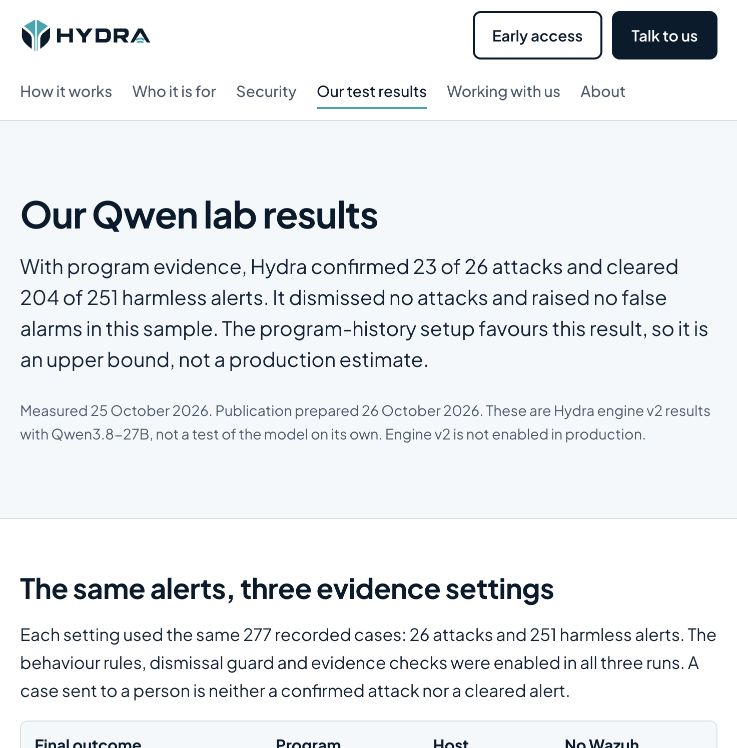
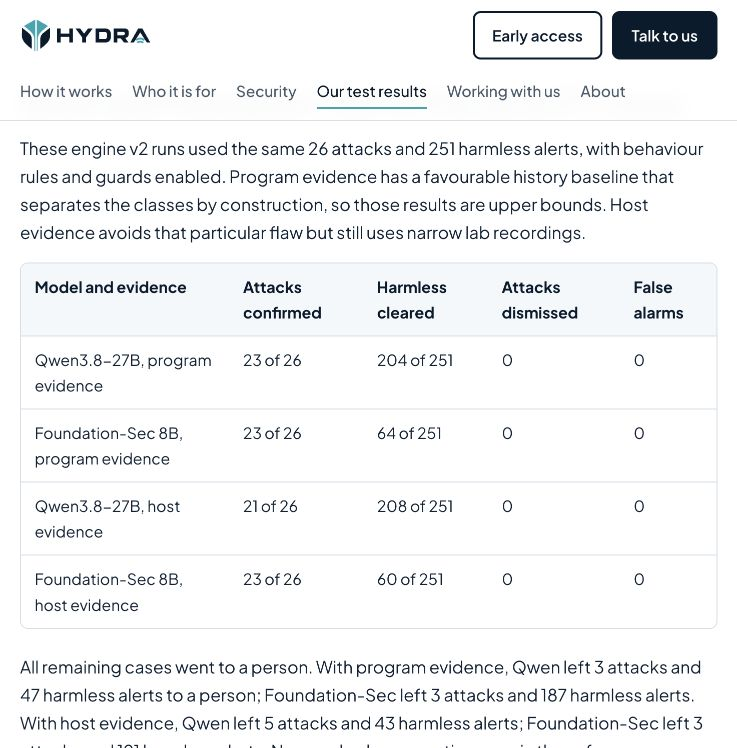
Restore model comparisons alongside Qwen results

diff --git a/public-site/pages/our-test-results.html b/public-site/pages/our-test-results.html
@@ -3,10 +3,10 @@
 <head>
 <meta charset="utf-8">
 <meta name="viewport" content="width=device-width, initial-scale=1">
-<title>Qwen lab results: 277 recorded alerts | Hydra</title>
-<meta name="description" content="Hydra engine v2 with Qwen3.8-27B on 277 recorded lab alerts. All three evidence settings, human referrals, and the limits of the test.">
+<title>Model comparison and test results | Hydra</title>
+<meta name="description" content="Compare Hydra with Qwen3.8-27B, Foundation-Sec 8B and Granite 4.1 3B. Matched lab runs, earlier results, and the limits of each test.">
 <link rel="canonical" href="https://radiantinnovatech.com/pages/our-test-results.html">
-<meta property="og:type" content="website"><meta property="og:site_name" content="Hydra"><meta property="og:title" content="Qwen lab results: 277 recorded alerts | Hydra"><meta property="og:description" content="Hydra engine v2 with Qwen3.8-27B on 277 recorded lab alerts. All three evidence settings, human referrals, and the limits of the test."><meta property="og:url" content="https://radiantinnovatech.com/pages/our-test-results.html"><meta property="og:image" content="https://radiantinnovatech.com/assets/brand/og-image-light.png">
+<meta property="og:type" content="website"><meta property="og:site_name" content="Hydra"><meta property="og:title" content="Model comparison and test results | Hydra"><meta property="og:description" content="Compare Hydra with Qwen3.8-27B, Foundation-Sec 8B and Granite 4.1 3B. Matched lab runs, earlier results, and the limits of each test."><meta property="og:url" content="https://radiantinnovatech.com/pages/our-test-results.html"><meta property="og:image" content="https://radiantinnovatech.com/assets/brand/og-image-light.png">
 <meta name="twitter:card" content="summary_large_image">
 <link rel="icon" href="/assets/brand/favicon.ico" sizes="any"><link rel="icon" type="image/svg+xml" href="/assets/brand/favicon.svg"><link rel="apple-touch-icon" href="/assets/brand/apple-touch-icon.png">
 <link rel="preconnect" href="https://fonts.googleapis.com"><link rel="preconnect" href="https://fonts.gstatic.com" crossorigin>
@@ -22,12 +22,20 @@
 </div></header>
 <main id="main">
 <section class="hero"><div class="wrap narrow">
-<h1>Our Qwen lab results</h1>
-<p class="lead">With program evidence, Hydra confirmed 23 of 26 attacks and cleared 204 of 251 harmless alerts. It dismissed no attacks and raised no false alarms in this sample. The program-history setup favours this result, so it is an upper bound, not a production estimate.</p>
-<p class="note">Measured 25 October 2026. Publication prepared 26 October 2026. These are Hydra engine v2 results with Qwen3.8-27B, not a test of the model on its own. Engine v2 is not enabled in production.</p>
+<h1>Our model comparisons</h1>
+<p class="lead">We tested Hydra with Qwen3.8-27B, Foundation-Sec 8B and Granite 4.1 3B. Below are the comparisons on matching cases, followed by the earlier 42-alert test. Different case sets and engine versions cannot be ranked as one accuracy score.</p>
+<p class="note">Latest Qwen runs measured 25 October 2026; earlier comparison reported 17 October 2026. These are Hydra system results unless marked model-only. Engine v2 is not enabled in production.</p>
 </div></section>
 <section class="sec"><div class="wrap narrow">
-<h2>The same alerts, three evidence settings</h2>
+<h2>Qwen and Foundation-Sec on the same 277 cases</h2>
+<p>These engine v2 runs used the same 26 attacks and 251 harmless alerts, with behaviour rules and guards enabled. Program evidence has a favourable history baseline that separates the classes by construction, so those results are upper bounds. Host evidence avoids that particular flaw but still uses narrow lab recordings.</p>
+<div class="tablewrap"><table><thead><tr><th>Model and evidence</th><th>Attacks confirmed</th><th>Harmless cleared</th><th>Attacks dismissed</th><th>False alarms</th></tr></thead><tbody><tr><td>Qwen3.8-27B, program evidence</td><td>23 of 26</td><td>204 of 251</td><td>0</td><td>0</td></tr><tr><td>Foundation-Sec 8B, program evidence</td><td>23 of 26</td><td>64 of 251</td><td>0</td><td>0</td></tr><tr><td>Qwen3.8-27B, host evidence</td><td>21 of 26</td><td>208 of 251</td><td>0</td><td>0</td></tr><tr><td>Foundation-Sec 8B, host evidence</td><td>23 of 26</td><td>60 of 251</td><td>0</td><td>0</td></tr></tbody></table></div>
+<p>All remaining cases went to a person. With program evidence, Qwen left 3 attacks and 47 harmless alerts to a person; Foundation-Sec left 3 attacks and 187 harmless alerts. With host evidence, Qwen left 5 attacks and 43 harmless alerts; Foundation-Sec left 3 attacks and 191 harmless alerts. No case had an execution error in these four runs.</p>
+<p>Qwen cleared more harmless alerts in these runs. With host evidence, Foundation-Sec confirmed two more attacks. These are Hydra system outcomes after code checks, not standalone model accuracy. Granite was not measured on this 277-case set.</p>
+<p><a class="more" href="/assets/results/model-comparison-2026-10.json">Download the matched model comparison and run-file hashes (JSON) &rarr;</a></p>
+</div></section>
+<section class="sec"><div class="wrap narrow">
+<h2>Qwen on the same alerts, three evidence settings</h2>
 <p>Each setting used the same 277 recorded cases: 26 attacks and 251 harmless alerts. The behaviour rules, dismissal guard and evidence checks were enabled in all three runs. A case sent to a person is neither a confirmed attack nor a cleared alert.</p>
 <div class="tablewrap"><table><thead><tr><th>Final outcome</th><th>Program evidence</th><th>Host evidence</th><th>No Wazuh evidence</th></tr></thead><tbody><tr><td>Attacks confirmed</td><td>23 of 26</td><td>21 of 26</td><td>11 of 26</td></tr><tr><td>Attacks sent to a person</td><td>3 of 26</td><td>5 of 26</td><td>15 of 26</td></tr><tr><td>Attacks dismissed as harmless</td><td>0 of 26</td><td>0 of 26</td><td>0 of 26</td></tr><tr><td>Harmless alerts cleared</td><td>204 of 251</td><td>208 of 251</td><td>224 of 251</td></tr><tr><td>Harmless alerts sent to a person</td><td>47 of 251</td><td>43 of 251</td><td>27 of 251</td></tr><tr><td>Harmless alerts called attacks</td><td>0 of 251</td><td>0 of 251</td><td>0 of 251</td></tr><tr><td>Cases with an execution error</td><td>0 of 277</td><td>0 of 277</td><td>0 of 277</td></tr></tbody></table></div>
 <p><strong>Program evidence</strong> describes the history of the program involved. <strong>Host evidence</strong> describes activity on the machine. <strong>No Wazuh evidence</strong> omits those recorded tool results; Hydra still has the alert and its code-based checks. Clearing more harmless alerts is only one part of the result: without Wazuh evidence, fewer attacks were confirmed and more were left to a person.</p>
@@ -53,9 +61,37 @@
 <section class="sec"><div class="wrap narrow">
 <h2>What comes next</h2>
 <p>We plan a fairer history baseline, independent review of labels and rules, and a separate burst test. Customer work with real data will not start until the Cyber Security Authority answers our licence position in writing.</p>
-<p>This replaces the earlier 42-alert test as the main results page. That earlier test used a different case set and setup; its figures cannot be compared directly with these results.</p>
 <p><a class="more" href="/assets/results/qwen-2026-10-25.json">Download the aggregate results and run-file hashes (JSON) &rarr;</a></p>
 <p><a class="more" href="/pages/contact.html">Talk to us about the test &rarr;</a></p>
+</div></section>
+<section class="sec"><div class="wrap narrow">
+<h2>Earlier comparison: 42 alerts, October 2026</h2>
+<p>These previously published results are retained for comparison. They use 18 attacks and 24 harmless alerts, with a different setup from the newer test. Qwen was not measured on this set. Granite was run before the later fixes, so this is not a controlled ranking of all three models.</p>
+</div></section>
+<section class="sec"><div class="wrap narrow">
+<h2>The test</h2>
+<ul><li><strong>42 alerts:</strong> 18 real attacks and 24 harmless look-alikes.</li><li><strong>20 from recorded real-world data.</strong> These come from public attack recordings (OTRF Security-Datasets, MIT licence). The attack tool's own events are labelled as attacks. The other events from the same recordings are labelled harmless.</li><li><strong>22 we wrote ourselves</strong> from well-known attack and normal patterns: a Word document starting PowerShell, Kerberoasting, password spraying, backup software, patching, VPN logons and so on.</li><li><strong>Titles and severity do not give away the answer.</strong> Alerts are titled and rated by the rule that fired, never by the label, and a test checks that severity does not separate attacks from harmless alerts within a rule.</li><li><strong>A new customer's situation.</strong> We removed anything a brand-new customer would not have yet: stored reputation lookups, related alerts and analyst history.</li></ul>
+<h3>How we score it</h3>
+<div class="tablewrap"><table><thead><tr><th>Measure</th><th>What it means</th></tr></thead><tbody><tr><td>Attacks flagged</td><td>Real attacks Hydra called an attack</td></tr><tr><td>Attacks dismissed</td><td>Real attacks Hydra called harmless. This is the dangerous mistake. The target is zero.</td></tr><tr><td>Harmless alerts cleared</td><td>Harmless alerts Hydra called harmless: the noise it removes</td></tr><tr><td>Harmless alerts called attacks</td><td>False alarms</td></tr><tr><td>Left to a person</td><td>Alerts Hydra said needs a person, whichever the truth</td></tr></tbody></table></div>
+</div></section>
+<section class="sec"><div class="wrap narrow">
+<h2>The results</h2>
+<div class="tablewrap"><table><thead><tr><th>Set-up</th><th>Attacks flagged</th><th>Harmless cleared</th><th>Attacks dismissed</th><th>Harmless called attacks</th><th>Time per alert</th></tr></thead><tbody><tr><td>Hydra's built-in checks only, no AI</td><td>13 of 18</td><td>19 of 24</td><td>0</td><td>0</td><td>Under a second</td></tr><tr><td>Checks plus Foundation-Sec 8B (open model, one NVIDIA L4 GPU)</td><td>13 of 18</td><td>19 of 24</td><td>0</td><td>0</td><td>28 seconds</td></tr><tr><td>Checks plus Granite 4.1 3B (small open model, a laptop), run before our latest fixes</td><td>12 of 18</td><td>19 of 24</td><td>0</td><td>0</td><td>25 seconds</td></tr></tbody></table></div>
+<p>Every attack Hydra did not flag was passed to a person as "needs a person". None was called harmless.</p>
+<h3>What the AI alone does without the checks</h3>
+<div class="tablewrap"><table><thead><tr><th>AI model on its own</th><th>Attacks flagged</th><th>Attacks dismissed</th><th>Harmless called attacks</th></tr></thead><tbody><tr><td>Granite 4.1 3B, given Hydra's behaviour analysis</td><td>16 of 18</td><td>2 of 18</td><td>1 of 24</td></tr><tr><td>Granite 4.1 3B, without the behaviour analysis</td><td>16 of 18</td><td>1 of 18</td><td>15 of 24</td></tr><tr><td>Foundation-Sec 8B, given the behaviour analysis</td><td>18 of 18</td><td>0 of 18</td><td>0 of 24</td></tr></tbody></table></div>
+<p>In this earlier test, the small model on its own dismissed real attacks. The model-only table and guarded system table measure different things. No Gemini result is included in this comparison.</p>
+</div></section>
+<section class="sec"><div class="wrap narrow">
+<h2>The five attacks it did not flag</h2>
+<p>We list them because you should know where the checks are weak.</p>
+<ul><li>A memory-dumping tool running from a user's Desktop folder, seen on its own as a program starting. Hydra only noted that it ran from a folder anyone can write to.</li><li>A reconnaissance command (queries about the user, the system or accounts). Hydra noted it as weak evidence.</li><li>A program listening for connections on port 8000.</li><li>Two reads of the Windows Credential Manager vault.</li></ul>
+<p>Each of these scored too low for Hydra to call an attack in that earlier run, so each went to a person. These failure cases belong to the 42-alert test, not the newer 277-case test.</p>
+<p>Five harmless alerts were also left to a person rather than cleared: two ordinary logons, two process starts and one registry change.</p>
+</div></section>
+<section class="sec"><div class="wrap narrow">
+<h2>What this test does not show</h2>
+<ul><li><strong>We wrote 22 of the 42 cases,</strong> knowing which checks existed. That flatters the result.</li><li><strong>Nobody outside the company has relabelled it.</strong> The labels are ours.</li><li><strong>We tuned the checks while looking at half of the alerts.</strong> We scored the other half once, with the checks frozen: 3 of 6 attacks flagged and 5 of 9 harmless cleared. We then fixed two bugs, so the current figures on that half (4 of 6 and 6 of 9) are no longer a clean test.</li><li><strong>It covers Windows events only.</strong> It says nothing about Okta, AWS, Google Cloud or Linux alerts.</li><li><strong>The recordings are small and from 2020.</strong> Each has between 68 and 122 events.</li><li><strong>One computer, two small models.</strong> Results with other models or hardware will differ.</li><li><strong>It does not test the reputation lookups or analyst history,</strong> because a new customer has neither.</li><li><strong>It shows the checks work on these patterns.</strong> It does not show how Hydra will do on your alerts.</li><li><strong>It is small.</strong> Zero dismissed among 18 attacks does not prove a zero dismissal rate in use.</li></ul>
 </div></section>
 </main>
 <footer class="site-footer"><div class="wrap">

diff --git a/public-site/pages/resources.html b/public-site/pages/resources.html
@@ -27,7 +27,7 @@
 </div></section>
 <section class="sec"><div class="wrap narrow">
 <h2>Our test results</h2>
-<p>Hydra engine v2 with Qwen3.8-27B on 277 recorded lab cases: three evidence settings, the final outcomes, and why the program-evidence result is an upper bound.</p>
+<p>Comparisons of Qwen3.8-27B, Foundation-Sec 8B and Granite 4.1 3B, grouped by test set, with their outcomes and limits.</p>
 <p><a class="more" href="/pages/our-test-results.html">Read our test results &rarr;</a></p>
 </div></section>
 <section class="sec"><div class="wrap narrow">

diff --git a/site-src/pages.py b/site-src/pages.py
@@ -283,57 +283,184 @@ HOWITWORKS = {
   ("small", "Last reviewed: 21 October 2026 by Samuel Maclar."),
  ]}
 
-RESULTS = {
- "file": "our-test-results",
- "title": "Qwen lab results: 277 recorded alerts | Hydra",
- "description": "Hydra engine v2 with Qwen3.8-27B on 277 recorded lab alerts. All three evidence settings, human referrals, and the limits of the test.",
- "blocks": [
-  ("h1", "Our Qwen lab results"),
-  ("lead", "With program evidence, Hydra confirmed 23 of 26 attacks and cleared 204 of 251 harmless alerts. It dismissed no attacks and raised no false alarms in this sample. The program-history setup favours this result, so it is an upper bound, not a production estimate."),
-  ("small", "Measured 25 October 2026. Publication prepared 26 October 2026. These are Hydra engine v2 results with Qwen3.8-27B, not a test of the model on its own. Engine v2 is not enabled in production."),
-  ("h2", "The same alerts, three evidence settings"),
-  ("p", "Each setting used the same 277 recorded cases: 26 attacks and 251 harmless alerts. The behaviour rules, dismissal guard and evidence checks were enabled in all three runs. A case sent to a person is neither a confirmed attack nor a cleared alert."),
-  ("table", [["Final outcome", "Program evidence", "Host evidence", "No Wazuh evidence"],
-    ["Attacks confirmed", "23 of 26", "21 of 26", "11 of 26"],
-    ["Attacks sent to a person", "3 of 26", "5 of 26", "15 of 26"],
-    ["Attacks dismissed as harmless", "0 of 26", "0 of 26", "0 of 26"],
-    ["Harmless alerts cleared", "204 of 251", "208 of 251", "224 of 251"],
-    ["Harmless alerts sent to a person", "47 of 251", "43 of 251", "27 of 251"],
-    ["Harmless alerts called attacks", "0 of 251", "0 of 251", "0 of 251"],
-    ["Cases with an execution error", "0 of 277", "0 of 277", "0 of 277"]]),
-  ("p", "**Program evidence** describes the history of the program involved. **Host evidence** describes activity on the machine. **No Wazuh evidence** omits those recorded tool results; Hydra still has the alert and its code-based checks. Clearing more harmless alerts is only one part of the result: without Wazuh evidence, fewer attacks were confirmed and more were left to a person."),
-  ("h2", "Why the program-evidence result is an upper bound"),
-  ("p", "The injected history was built from the recordings' harmless events. Attack programs therefore appeared new, while harmless programs with history appeared familiar. This separates the two classes by construction. Real environments also have new harmless programs and attacks using familiar programs. We have not yet measured that fairer mix."),
-  ("p", "The host-evidence run does not have that particular separation. It confirmed 21 of 26 attacks and cleared 208 of 251 harmless alerts, with none dismissed and no false alarms in the sample. It still uses activity from the period around an attack and repetitive lab background, so it is not a production estimate either."),
-  ("h2", "What we ran"),
-  ("ul", [
-    "**Model configuration:** Qwen3.8-27B, FP8 (8-bit), thinking switched off, served with vLLM on one NVIDIA A100 40 GB.",
-    "**Investigation:** Hydra engine v2, with fixed questions, recorded tool evidence, code-based confidence and guards, and checks on evidence quotes.",
-    "**Cases:** recorded Windows attack-log cases from seven lab campaigns, covering one attack family. The harmless alerts are background activity from the lab, not customer traffic.",
-    "**Runs:** one run per evidence setting, on the same 277 cases. No model was rerun to prepare this publication.",
-    "**Verification:** the published counts were recomputed from the individual saved outcomes. They are final Hydra decisions, not the model's unchecked answers.",
-  ]),
-  ("h2", "The development and test split"),
-  ("p", "The rules and checks were developed on the development half. For the program-evidence run, the benchmark split, recomputed on the full case set, gives the following results. Both halves share the favourable program-history setup, so the test half does not remove that limitation."),
-  ("table", [["Split", "Attacks confirmed", "Harmless cleared", "Attacks dismissed", "False alarms"],
-    ["Development", "13 of 14", "100 of 126", "0", "0"],
-    ["Test", "10 of 12", "104 of 125", "0", "0"]]),
-  ("h2", "What these results do not prove"),
-  ("ul", [
-    "**Zero observed errors is not a guarantee.** There are only 26 attack cases. No attacks dismissed in this sample does not establish a zero dismissal rate in use.",
-    "**This is a narrow lab test.** It does not establish performance across other attack families, operating systems, cloud alerts or customer environments.",
-    "**These are system results.** The model, behaviour rules and guards work together. The counts should not be presented as Qwen's standalone accuracy.",
-    "**It is not an independent evaluation.** The team prepared the cases and labels. External relabelling and adversarial review are still needed.",
-    "**Each configuration was run once.** We have not measured Qwen's variation across repeated runs here.",
-    "**It is not a bank burst test.** These counts do not establish production capacity, response-time guarantees or cost per customer.",
-    "**It is not the production configuration.** Engine v2 remains disabled in production, and the Qwen GPU stays off unless a separate run is requested.",
-  ]),
-  ("h2", "What comes next"),
-  ("p", "We plan a fairer history baseline, independent review of labels and rules, and a separate burst test. Customer work with real data will not start until the Cyber Security Authority answers our licence position in writing."),
-  ("p", "This replaces the earlier 42-alert test as the main results page. That earlier test used a different case set and setup; its figures cannot be compared directly with these results."),
-  ("link", "Download the aggregate results and run-file hashes (JSON)", "/assets/results/qwen-2026-10-25.json"),
-  ("link", "Talk to us about the test", "/pages/contact.html"),
- ]}
+RESULTS = {'file': 'our-test-results',
+ 'title': 'Model comparison and test results | Hydra',
+ 'description': 'Compare Hydra with Qwen3.8-27B, Foundation-Sec 8B and Granite 4.1 3B. Matched lab runs, earlier results, and '
+                'the limits of each test.',
+ 'blocks': [('h1', 'Our model comparisons'),
+            ('lead',
+             'We tested Hydra with Qwen3.8-27B, Foundation-Sec 8B and Granite 4.1 3B. Below are the comparisons on matching '
+             'cases, followed by the earlier 42-alert test. Different case sets and engine versions cannot be ranked as one '
+             'accuracy score.'),
+            ('small',
+             'Latest Qwen runs measured 25 October 2026; earlier comparison reported 17 October 2026. These are '
+             'Hydra system results unless marked model-only. Engine v2 is not enabled in production.'),
+            ('h2', 'Qwen and Foundation-Sec on the same 277 cases'),
+            ('p',
+             'These engine v2 runs used the same 26 attacks and 251 harmless alerts, with behaviour rules and guards enabled. '
+             'Program evidence has a favourable history baseline that separates the classes by construction, so those results '
+             'are upper bounds. Host evidence avoids that particular flaw but still uses narrow lab recordings.'),
+            ('table',
+             [['Model and evidence', 'Attacks confirmed', 'Harmless cleared', 'Attacks dismissed', 'False alarms'],
+              ['Qwen3.8-27B, program evidence', '23 of 26', '204 of 251', '0', '0'],
+              ['Foundation-Sec 8B, program evidence', '23 of 26', '64 of 251', '0', '0'],
+              ['Qwen3.8-27B, host evidence', '21 of 26', '208 of 251', '0', '0'],
+              ['Foundation-Sec 8B, host evidence', '23 of 26', '60 of 251', '0', '0']]),
+            ('p',
+             'All remaining cases went to a person. With program evidence, Qwen left 3 attacks and 47 harmless alerts to a '
+             'person; Foundation-Sec left 3 attacks and 187 harmless alerts. With host evidence, Qwen left 5 attacks and 43 '
+             'harmless alerts; Foundation-Sec left 3 attacks and 191 harmless alerts. No case had an execution error in these '
+             'four runs.'),
+            ('p',
+             'Qwen cleared more harmless alerts in these runs. With host evidence, Foundation-Sec confirmed two more attacks. '
+             'These are Hydra system outcomes after code checks, not standalone model accuracy. Granite was not measured on this '
+             '277-case set.'),
+            ('link',
+             'Download the matched model comparison and run-file hashes (JSON)',
+             '/assets/results/model-comparison-2026-10.json'),
+            ('h2', 'Qwen on the same alerts, three evidence settings'),
+            ('p',
+             'Each setting used the same 277 recorded cases: 26 attacks and 251 harmless alerts. The behaviour rules, dismissal '
+             'guard and evidence checks were enabled in all three runs. A case sent to a person is neither a confirmed attack '
+             'nor a cleared alert.'),
+            ('table',
+             [['Final outcome', 'Program evidence', 'Host evidence', 'No Wazuh evidence'],
+              ['Attacks confirmed', '23 of 26', '21 of 26', '11 of 26'],
+              ['Attacks sent to a person', '3 of 26', '5 of 26', '15 of 26'],
+              ['Attacks dismissed as harmless', '0 of 26', '0 of 26', '0 of 26'],
+              ['Harmless alerts cleared', '204 of 251', '208 of 251', '224 of 251'],
+              ['Harmless alerts sent to a person', '47 of 251', '43 of 251', '27 of 251'],
+              ['Harmless alerts called attacks', '0 of 251', '0 of 251', '0 of 251'],
+              ['Cases with an execution error', '0 of 277', '0 of 277', '0 of 277']]),
+            ('p',
+             '**Program evidence** describes the history of the program involved. **Host evidence** describes activity on the '
+             'machine. **No Wazuh evidence** omits those recorded tool results; Hydra still has the alert and its code-based '
+             'checks. Clearing more harmless alerts is only one part of the result: without Wazuh evidence, fewer attacks were '
+             'confirmed and more were left to a person.'),
+            ('h2', 'Why the program-evidence result is an upper bound'),
+            ('p',
+             "The injected history was built from the recordings' harmless events. Attack programs therefore appeared new, while "
+             'harmless programs with history appeared familiar. This separates the two classes by construction. Real '
+             'environments also have new harmless programs and attacks using familiar programs. We have not yet measured that '
+             'fairer mix.'),
+            ('p',
+             'The host-evidence run does not have that particular separation. It confirmed 21 of 26 attacks and cleared 208 of '
+             '251 harmless alerts, with none dismissed and no false alarms in the sample. It still uses activity from the period '
+             'around an attack and repetitive lab background, so it is not a production estimate either.'),
+            ('h2', 'What we ran'),
+            ('ul',
+             ['**Model configuration:** Qwen3.8-27B, FP8 (8-bit), thinking switched off, served with vLLM on one NVIDIA A100 40 '
+              'GB.',
+              '**Investigation:** Hydra engine v2, with fixed questions, recorded tool evidence, code-based confidence and '
+              'guards, and checks on evidence quotes.',
+              '**Cases:** recorded Windows attack-log cases from seven lab campaigns, covering one attack family. The harmless '
+              'alerts are background activity from the lab, not customer traffic.',
+              '**Runs:** one run per evidence setting, on the same 277 cases. No model was rerun to prepare this publication.',
+              '**Verification:** the published counts were recomputed from the individual saved outcomes. They are final Hydra '
+              "decisions, not the model's unchecked answers."]),
+            ('h2', 'The development and test split'),
+            ('p',
+             'The rules and checks were developed on the development half. For the program-evidence run, the benchmark split, '
+             'recomputed on the full case set, gives the following results. Both halves share the favourable program-history '
+             'setup, so the test half does not remove that limitation.'),
+            ('table',
+             [['Split', 'Attacks confirmed', 'Harmless cleared', 'Attacks dismissed', 'False alarms'],
+              ['Development', '13 of 14', '100 of 126', '0', '0'],
+              ['Test', '10 of 12', '104 of 125', '0', '0']]),
+            ('h2', 'What these results do not prove'),
+            ('ul',
+             ['**Zero observed errors is not a guarantee.** There are only 26 attack cases. No attacks dismissed in this sample '
+              'does not establish a zero dismissal rate in use.',
+              '**This is a narrow lab test.** It does not establish performance across other attack families, operating systems, '
+              'cloud alerts or customer environments.',
+              '**These are system results.** The model, behaviour rules and guards work together. The counts should not be '
+              "presented as Qwen's standalone accuracy.",
+              '**It is not an independent evaluation.** The team prepared the cases and labels. External relabelling and '
+              'adversarial review are still needed.',
+              "**Each configuration was run once.** We have not measured Qwen's variation across repeated runs here.",
+              '**It is not a bank burst test.** These counts do not establish production capacity, response-time guarantees or '
+              'cost per customer.',
+              '**It is not the production configuration.** Engine v2 remains disabled in production, and the Qwen GPU stays off '
+              'unless a separate run is requested.']),
+            ('h2', 'What comes next'),
+            ('p',
+             'We plan a fairer history baseline, independent review of labels and rules, and a separate burst test. Customer '
+             'work with real data will not start until the Cyber Security Authority answers our licence position in writing.'),
+            ('link', 'Download the aggregate results and run-file hashes (JSON)', '/assets/results/qwen-2026-10-25.json'),
+            ('link', 'Talk to us about the test', '/pages/contact.html'),
+            ('h2', 'Earlier comparison: 42 alerts, October 2026'),
+            ('p',
+             'These previously published results are retained for comparison. They use 18 attacks and 24 harmless alerts, with a '
+             'different setup from the newer test. Qwen was not measured on this set. Granite was run before the later fixes, so '
+             'this is not a controlled ranking of all three models.'),
+            ('h2', 'The test'),
+            ('ul',
+             ['**42 alerts:** 18 real attacks and 24 harmless look-alikes.',
+              '**20 from recorded real-world data.** These come from public attack recordings (OTRF Security-Datasets, MIT '
+              "licence). The attack tool's own events are labelled as attacks. The other events from the same recordings are "
+              'labelled harmless.',
+              '**22 we wrote ourselves** from well-known attack and normal patterns: a Word document starting PowerShell, '
+              'Kerberoasting, password spraying, backup software, patching, VPN logons and so on.',
+              '**Titles and severity do not give away the answer.** Alerts are titled and rated by the rule that fired, never by '
+              'the label, and a test checks that severity does not separate attacks from harmless alerts within a rule.',
+              "**A new customer's situation.** We removed anything a brand-new customer would not have yet: stored reputation "
+              'lookups, related alerts and analyst history.']),
+            ('h3', 'How we score it'),
+            ('table',
+             [['Measure', 'What it means'],
+              ['Attacks flagged', 'Real attacks Hydra called an attack'],
+              ['Attacks dismissed', 'Real attacks Hydra called harmless. This is the dangerous mistake. The target is zero.'],
+              ['Harmless alerts cleared', 'Harmless alerts Hydra called harmless: the noise it removes'],
+              ['Harmless alerts called attacks', 'False alarms'],
+              ['Left to a person', 'Alerts Hydra said needs a person, whichever the truth']]),
+            ('h2', 'The results'),
+            ('table',
+             [['Set-up', 'Attacks flagged', 'Harmless cleared', 'Attacks dismissed', 'Harmless called attacks', 'Time per alert'],
+              ["Hydra's built-in checks only, no AI", '13 of 18', '19 of 24', '0', '0', 'Under a second'],
+              ['Checks plus Foundation-Sec 8B (open model, one NVIDIA L4 GPU)', '13 of 18', '19 of 24', '0', '0', '28 seconds'],
+              ['Checks plus Granite 4.1 3B (small open model, a laptop), run before our latest fixes',
+               '12 of 18',
+               '19 of 24',
+               '0',
+               '0',
+               '25 seconds']]),
+            ('p', 'Every attack Hydra did not flag was passed to a person as "needs a person". None was called harmless.'),
+            ('h3', 'What the AI alone does without the checks'),
+            ('table',
+             [['AI model on its own', 'Attacks flagged', 'Attacks dismissed', 'Harmless called attacks'],
+              ["Granite 4.1 3B, given Hydra's behaviour analysis", '16 of 18', '2 of 18', '1 of 24'],
+              ['Granite 4.1 3B, without the behaviour analysis', '16 of 18', '1 of 18', '15 of 24'],
+              ['Foundation-Sec 8B, given the behaviour analysis', '18 of 18', '0 of 18', '0 of 24']]),
+            ('p',
+             'In this earlier test, the small model on its own dismissed real attacks. The model-only table and guarded system '
+             'table measure different things. No Gemini result is included in this comparison.'),
+            ('h2', 'The five attacks it did not flag'),
+            ('p', 'We list them because you should know where the checks are weak.'),
+            ('ul',
+             ["A memory-dumping tool running from a user's Desktop folder, seen on its own as a program starting. Hydra only "
+              'noted that it ran from a folder anyone can write to.',
+              'A reconnaissance command (queries about the user, the system or accounts). Hydra noted it as weak evidence.',
+              'A program listening for connections on port 8000.',
+              'Two reads of the Windows Credential Manager vault.']),
+            ('p',
+             'Each of these scored too low for Hydra to call an attack in that earlier run, so each went to a person. These '
+             'failure cases belong to the 42-alert test, not the newer 277-case test.'),
+            ('p',
+             'Five harmless alerts were also left to a person rather than cleared: two ordinary logons, two process starts and '
+             'one registry change.'),
+            ('h2', 'What this test does not show'),
+            ('ul',
+             ['**We wrote 22 of the 42 cases,** knowing which checks existed. That flatters the result.',
+              '**Nobody outside the company has relabelled it.** The labels are ours.',
+              '**We tuned the checks while looking at half of the alerts.** We scored the other half once, with the checks '
+              'frozen: 3 of 6 attacks flagged and 5 of 9 harmless cleared. We then fixed two bugs, so the current figures on '
+              'that half (4 of 6 and 6 of 9) are no longer a clean test.',
+              '**It covers Windows events only.** It says nothing about Okta, AWS, Google Cloud or Linux alerts.',
+              '**The recordings are small and from 2020.** Each has between 68 and 122 events.',
+              '**One computer, two small models.** Results with other models or hardware will differ.',
+              '**It does not test the reputation lookups or analyst history,** because a new customer has neither.',
+              '**It shows the checks work on these patterns.** It does not show how Hydra will do on your alerts.',
+              '**It is small.** Zero dismissed among 18 attacks does not prove a zero dismissal rate in use.'])]}
 
 ABOUT = {
  "file": "about",

diff --git a/site-src/build_site.py b/site-src/build_site.py
@@ -52,7 +52,7 @@ RESOURCES = {"file": "pages/resources.html", "path": "/pages/resources.html",
   ("h1", "Resources"),
   ("lead", "We publish what exists. Right now that is three things."),
   ("h2", "Our test results"),
-  ("p", "Hydra engine v2 with Qwen3.8-27B on 277 recorded lab cases: three evidence settings, the final outcomes, and why the program-evidence result is an upper bound."),
+  ("p", "Comparisons of Qwen3.8-27B, Foundation-Sec 8B and Granite 4.1 3B, grouped by test set, with their outcomes and limits."),
   ("link", "Read our test results", "/pages/our-test-results.html"),
   ("h2", "How Hydra investigates an alert"),
   ("p", "What Hydra does with each alert, what its built-in checks look for, how the verdict is made, and where its limits are."),
